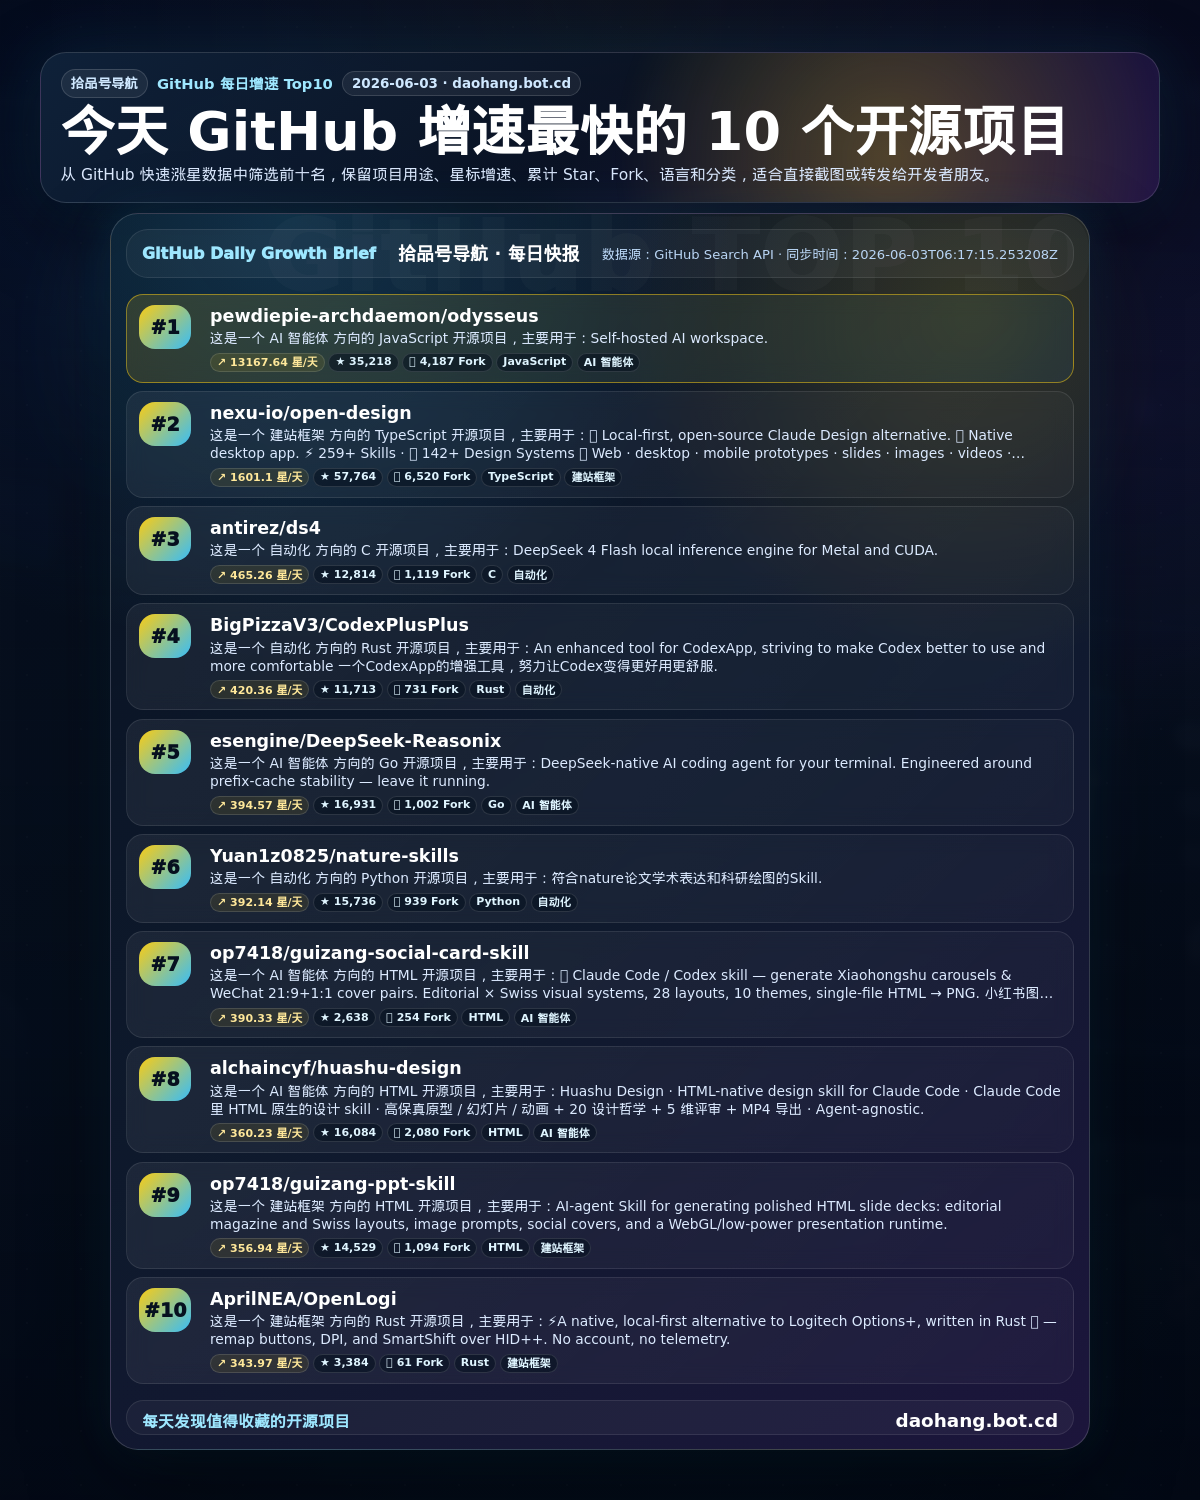
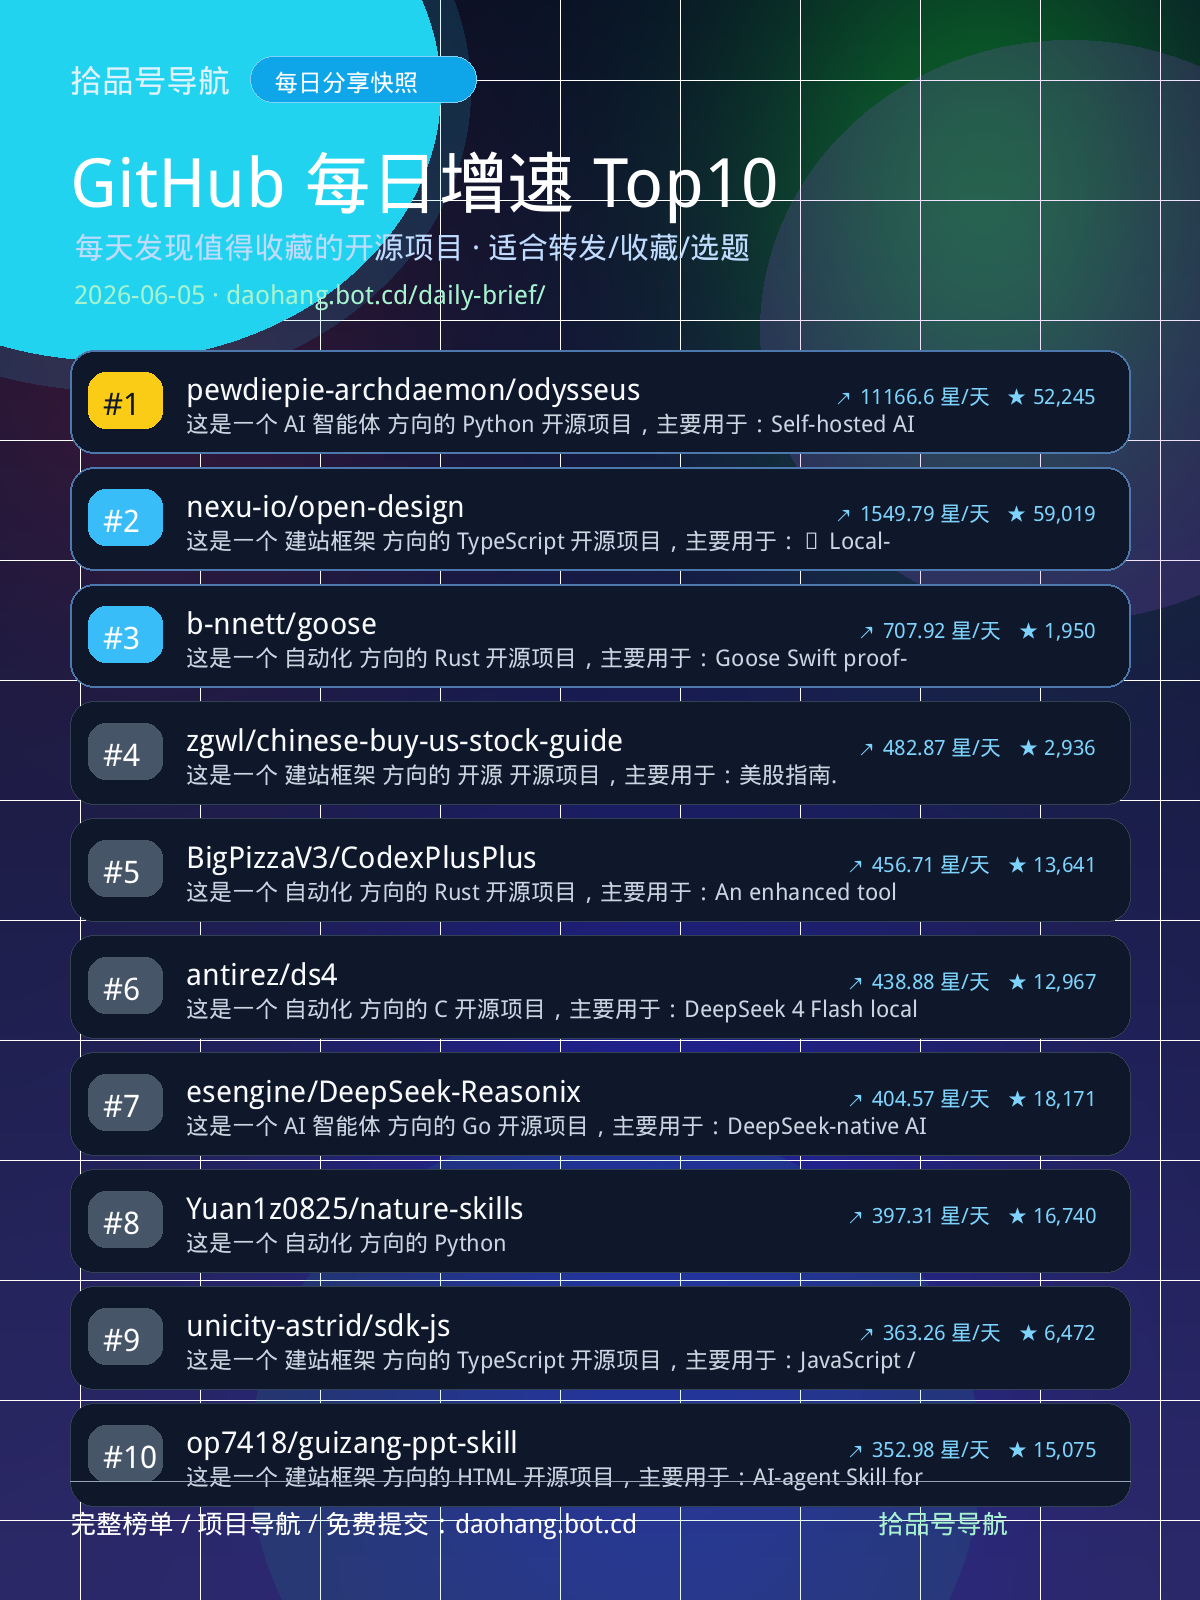
Ensure daily brief share snapshot updates

diff --git a/scripts/generate_daily_brief_snapshot.py b/scripts/generate_daily_brief_snapshot.py
@@ -1,0 +1,162 @@
+#!/usr/bin/env python3
+"""Generate the daily-brief share snapshot PNG from data/github-rising.json.
+
+This intentionally does not use a browser screenshot so GitHub Actions can update
+`assets/daily-brief-share.png` deterministically every day after the rising data
+sync.
+"""
+from __future__ import annotations
+
+import json
+import math
+import textwrap
+from datetime import datetime, timezone
+from pathlib import Path
+from typing import Any
+
+from PIL import Image, ImageDraw, ImageFont
+
+ROOT = Path(__file__).resolve().parents[1]
+DATA = ROOT / "data" / "github-rising.json"
+OUT = ROOT / "assets" / "daily-brief-share.png"
+BASE = "daohang.bot.cd"
+
+FONT_CANDIDATES = [
+    "/usr/share/fonts/google-droid/DroidSansFallback.ttf",
+    "/usr/share/fonts/opentype/noto/NotoSansCJK-Regular.ttc",
+    "/usr/share/fonts/truetype/noto/NotoSansCJK-Regular.ttc",
+    "/usr/share/fonts/dejavu/DejaVuSans.ttf",
+]
+BOLD_CANDIDATES = [
+    "/usr/share/fonts/google-droid/DroidSansFallback.ttf",
+    "/usr/share/fonts/opentype/noto/NotoSansCJK-Bold.ttc",
+    "/usr/share/fonts/truetype/noto/NotoSansCJK-Bold.ttc",
+    "/usr/share/fonts/dejavu/DejaVuSans-Bold.ttf",
+]
+
+
+def font(size: int, bold: bool = False) -> Any:
+    candidates = BOLD_CANDIDATES if bold else FONT_CANDIDATES
+    for p in candidates:
+        if Path(p).exists():
+            return ImageFont.truetype(p, size=size)
+    return ImageFont.load_default()
+
+
+def esc_text(value: object) -> str:
+    return str(value or "").replace("\n", " ").strip()
+
+
+def wrap_cn(text: str, width: int) -> list[str]:
+    text = esc_text(text)
+    if len(text) <= width:
+        return [text]
+    # Mixed Chinese/English: textwrap is fine for English runs; CJK can break by char.
+    lines: list[str] = []
+    for para in textwrap.wrap(text, width=width, break_long_words=True, replace_whitespace=False):
+        lines.append(para)
+    return lines or [text[:width]]
+
+
+def rounded(draw: ImageDraw.ImageDraw, box: tuple[int, int, int, int], radius: int, fill, outline=None, width: int = 1) -> None:
+    draw.rounded_rectangle(box, radius=radius, fill=fill, outline=outline, width=width)
+
+
+def draw_gradient_bg(img: Image.Image) -> None:
+    pix = img.load()
+    w, h = img.size
+    for y in range(h):
+        for x in range(w):
+            nx = x / w
+            ny = y / h
+            # Deep navy -> purple/teal glow.
+            r = int(9 + 35 * ny + 36 * math.exp(-((nx - 0.12) ** 2 + (ny - 0.18) ** 2) / 0.05))
+            g = int(17 + 24 * ny + 80 * math.exp(-((nx - 0.82) ** 2 + (ny - 0.12) ** 2) / 0.04))
+            b = int(38 + 65 * ny + 70 * math.exp(-((nx - 0.55) ** 2 + (ny - 0.78) ** 2) / 0.08))
+            pix[x, y] = (min(r, 115), min(g, 150), min(b, 190))
+
+
+def main() -> int:
+    data = json.loads(DATA.read_text("utf-8"))
+    projects = (data.get("projects") or [])[:10]
+    synced = data.get("synced_at") or datetime.now(timezone.utc).isoformat()
+    date_label = synced[:10]
+
+    W, H = 1200, 1600
+    img = Image.new("RGB", (W, H), (9, 17, 38))
+    draw_gradient_bg(img)
+    d = ImageDraw.Draw(img)
+
+    # Soft grid / glow accents.
+    for x in range(80, W, 120):
+        d.line((x, 0, x, H), fill=(255, 255, 255, 12), width=1)
+    for y in range(80, H, 120):
+        d.line((0, y, W, y), fill=(255, 255, 255, 10), width=1)
+    d.ellipse((-220, -180, 440, 360), fill=(32, 211, 238))
+    overlay = Image.new("RGBA", (W, H), (0, 0, 0, 0))
+    od = ImageDraw.Draw(overlay)
+    od.ellipse((-250, -210, 470, 390), fill=(45, 212, 255, 34))
+    od.ellipse((760, 40, 1380, 620), fill=(168, 85, 247, 42))
+    od.ellipse((250, 1120, 980, 1800), fill=(16, 185, 129, 28))
+    img = Image.alpha_composite(img.convert("RGBA"), overlay).convert("RGB")
+    d = ImageDraw.Draw(img)
+
+    f_brand = font(32, True)
+    f_title = font(68, True)
+    f_sub = font(30)
+    f_date = font(26)
+    f_rank = font(31, True)
+    f_name = font(30, True)
+    f_desc = font(23)
+    f_meta = font(21)
+    f_footer = font(26, True)
+
+    # Header.
+    d.text((70, 58), "拾品号导航", font=f_brand, fill=(224, 242, 254))
+    rounded(d, (250, 56, 476, 102), 23, fill=(14, 165, 233), outline=(125, 211, 252))
+    d.text((274, 65), "每日分享快照", font=font(24, True), fill=(255, 255, 255))
+    d.text((70, 136), "GitHub 每日增速 Top10", font=f_title, fill=(255, 255, 255))
+    d.text((74, 226), "每天发现值得收藏的开源项目 · 适合转发/收藏/选题", font=f_sub, fill=(191, 219, 254))
+    d.text((74, 276), f"{date_label} · {BASE}/daily-brief/", font=f_date, fill=(167, 243, 208))
+
+    # Cards.
+    y = 350
+    card_h = 103
+    gap = 14
+    for idx, p in enumerate(projects, 1):
+        x0, y0, x1, y1 = 70, y, 1130, y + card_h
+        fill = (15, 23, 42)
+        outline = (77, 120, 174) if idx <= 3 else (51, 65, 85)
+        rounded(d, (x0, y0, x1, y1), 24, fill=fill, outline=outline, width=2 if idx <= 3 else 1)
+        rank_fill = (250, 204, 21) if idx == 1 else ((56, 189, 248) if idx <= 3 else (71, 85, 105))
+        rounded(d, (x0 + 18, y0 + 22, x0 + 92, y0 + 78), 18, fill=rank_fill)
+        d.text((x0 + 33, y0 + 32), f"#{idx}", font=f_rank, fill=(15, 23, 42) if idx == 1 else (255, 255, 255))
+
+        name = esc_text(p.get("name"))[:34]
+        desc = esc_text(p.get("desc_cn") or p.get("desc"))
+        desc_lines = wrap_cn(desc, 47)[:1]
+        growth = p.get("growth") or {}
+        spd = growth.get("stars_per_day") or 0
+        stars = int(p.get("stars") or 0)
+        d.text((x0 + 116, y0 + 18), name, font=f_name, fill=(248, 250, 252))
+        d.text((x0 + 116, y0 + 58), desc_lines[0], font=f_desc, fill=(203, 213, 225))
+        # Keep the share poster readable at thumbnail size; detailed language/category
+        # remain on the HTML daily-brief page.
+        meta = f"↗ {round(float(spd), 2)} 星/天   ★ {stars:,}"
+        d.text((x1 - 34, y0 + 32), meta, font=f_meta, fill=(125, 211, 252), anchor="ra")
+        y += card_h + gap
+
+    # Footer.
+    footer_y = 1505
+    d.line((70, footer_y - 24, 1130, footer_y - 24), fill=(148, 163, 184), width=1)
+    d.text((70, footer_y), "完整榜单 / 项目导航 / 免费提交：daohang.bot.cd", font=f_footer, fill=(255, 255, 255))
+    d.text((878, footer_y), "拾品号导航", font=f_footer, fill=(167, 243, 208))
+
+    OUT.parent.mkdir(parents=True, exist_ok=True)
+    img.save(OUT, "PNG", optimize=True)
+    print(f"generated {OUT} ({OUT.stat().st_size} bytes)")
+    return 0
+
+
+if __name__ == "__main__":
+    raise SystemExit(main())